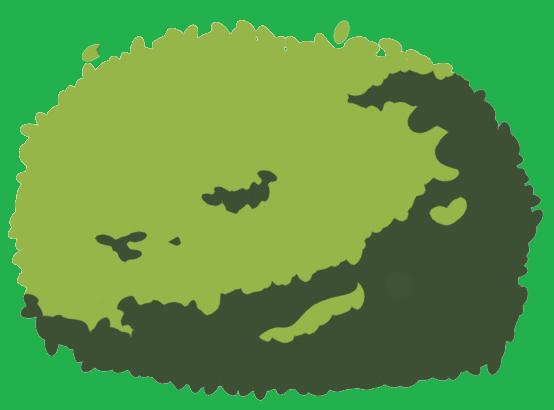
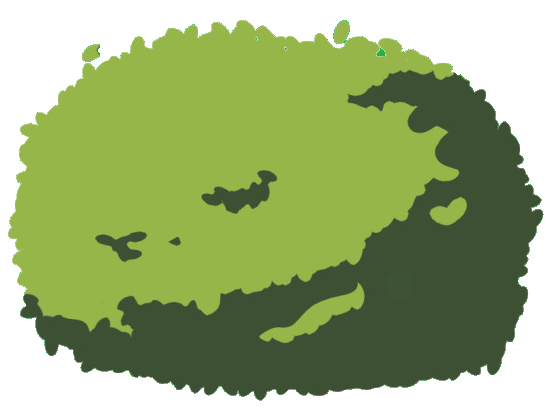
Fixed various transparency images.

Changed region(s): [[0.0, 0.0, 1.0, 1.0]]

diff --git a/src/GameFiles/SideScrollModel.java b/src/GameFiles/SideScrollModel.java
@@ -14,10 +14,7 @@ import javax.imageio.ImageIO;
  *
  */
 public class SideScrollModel extends Model {
-	
-	/**
-	 * a list of the buttons in our game
-	 */
+
 	
 	Background backOne;
 	Background backTwo;
